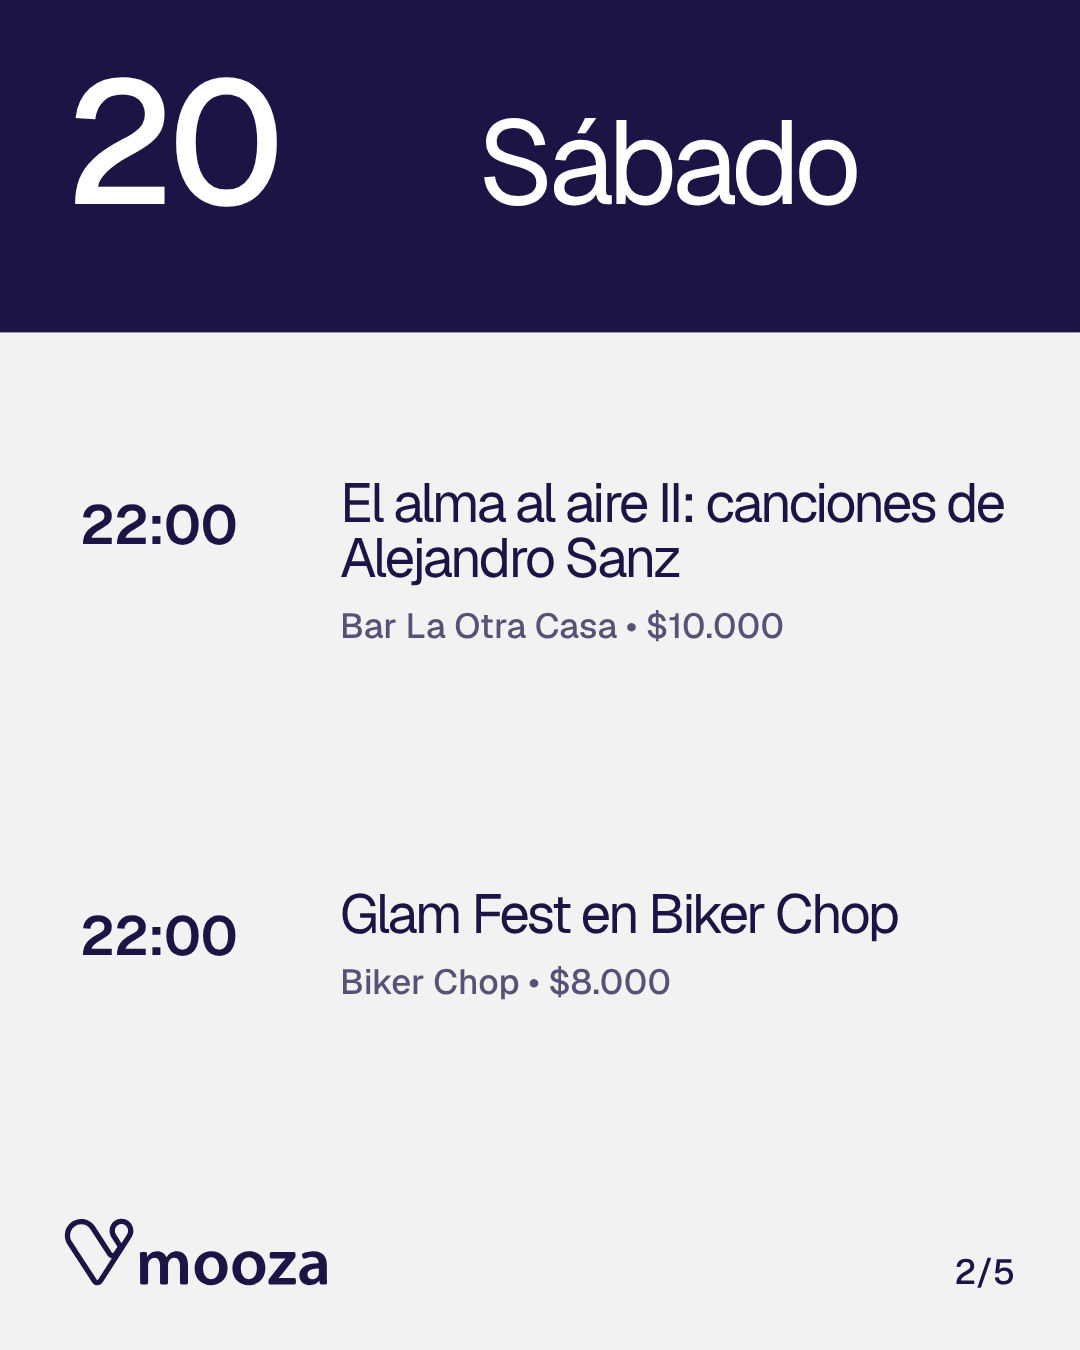
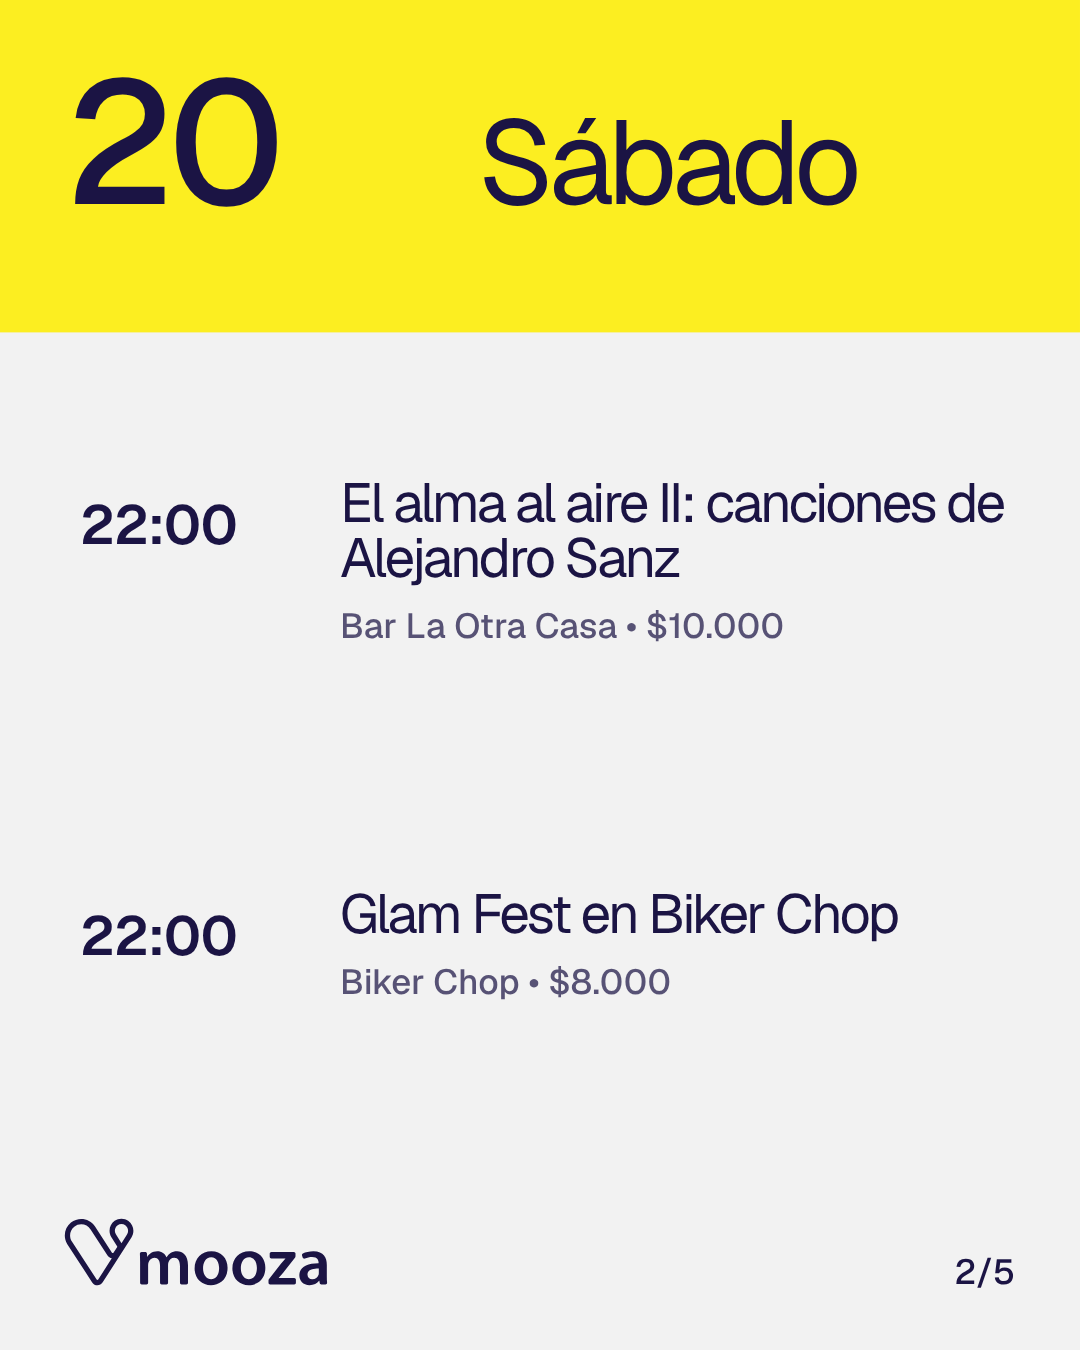
Color: cada diseño con su zona (azul, amarillo, naranjo); el azul es protagonista, no absoluto; web con zona amarilla
Claude-Session: https://claude.ai/code/session_01FatczGDNUrWcTXBDB5f52U

Changed region(s): [[0.0, 0.0, 1.0, 0.2489]]

diff --git a/components/grid/poster.js b/components/grid/poster.js
@@ -59,10 +59,13 @@
   function zona(desde,n,fondo){return cell(1,7,desde,n,'mz-zona','','background:'+fondo)}
   /* mitad derecha de un cartel horizontal: del centro al borde */
   function mitad(fondo,cls){return '<div class="mz-mitad'+(cls?' '+cls:'')+'"'+(fondo?' style="background:'+fondo+'"':'')+'></div>'}
-  /* el color protagonista de la pieza: azul, o el que venga en datos.color */
-  function campo(d){return 'var(--mz-'+(d.color||'azul')+')'}
+  /* el color de la zona: el que venga en datos.color o el propio de cada diseño (azul, amarillo o naranja).
+     El azul es protagonista, no el único: en un conjunto de piezas los tres colores se reparten. */
+  function campo(d,def){return 'var(--mz-'+(d.color||def)+')'}
   /* sobre azul el texto va en blanco; sobre cualquier otro campo, en azul */
-  function tinta(d){var c=d.color||'azul';return c==='azul'?' mz-sobre-oscuro':''}
+  function tinta(d,def){return (d.color||def)==='azul'?' mz-sobre-oscuro':''}
+  /* el acento pequeño es amarillo, salvo que la zona ya sea amarilla: entonces es naranja */
+  function acento(d,def){return 'background:var(--mz-'+((d.color||def)==='amarillo'?'naranja':'amarillo')+')'}
 
   /* pie: la última fila de todo cartel. El logo mide dos columnas y va a la izquierda; el texto, a la derecha.
      Nada más entra en esa fila, así que el logo nunca choca. oscuro: el pie está sobre el color oscuro. */
@@ -73,21 +76,21 @@
 
   /* titular: arriba, el titular sobre el color. Abajo, sobre gris, la fecha. */
   function titular(d,n,f){
-    var k=tinta(d);
-    if(f==='16x9')return grid(n,mitad(campo(d))+cell(1,3,1,3,'mz-t-grande',d.titular)+cell(5,7,1,1,'mz-t-sub'+k,d.rango)+
+    var k=tinta(d,'azul');
+    if(f==='16x9')return grid(n,mitad(campo(d,'azul'))+cell(1,3,1,3,'mz-t-grande',d.titular)+cell(5,7,1,1,'mz-t-sub'+k,d.rango)+
       cell(1,2,n,n,'mz-pie-logo',LOGO)+cell(5,7,n,n,'mz-t-dato mz-fecha-pie'+k,'mooza.cl'));
     var s=ARRIBA_TITULAR[f];
-    return grid(n,zonaA(s,campo(d))+cell(1,7,1,s,'mz-t-grande'+k,d.titular)+
+    return grid(n,zonaA(s,campo(d,'azul'))+cell(1,7,1,s,'mz-t-grande'+k,d.titular)+
       cell(1,7,s+2,s+2,'mz-t-sub mz-abajo',d.rango)+pie(n,'mooza.cl'));
   }
 
   /* número: arriba, sobre gris, el rango de la semana, enorme. Abajo, sobre el color, qué es. */
   function numero(d,n,f){
-    var k=tinta(d);
-    if(f==='16x9')return grid(n,mitad(campo(d))+cell(1,3,1,2,'mz-t-grande','Esta<br>semana')+cell(5,7,1,3,'mz-t-display'+k,d.corto)+
+    var k=tinta(d,'amarillo');
+    if(f==='16x9')return grid(n,mitad(campo(d,'amarillo'))+cell(1,3,1,2,'mz-t-grande','Esta<br>semana')+cell(5,7,1,3,'mz-t-display'+k,d.corto)+
       cell(1,2,n,n,'mz-pie-logo',LOGO)+cell(5,7,n,n,'mz-t-dato mz-fecha-pie'+k,'mooza.cl'));
     var s=ARRIBA[f];
-    return grid(n,zona(s+1,n,campo(d))+cell(1,7,1,s,'mz-t-display',d.corto)+
+    return grid(n,zona(s+1,n,campo(d,'amarillo'))+cell(1,7,1,s,'mz-t-display',d.corto)+
       cell(1,7,s+2,s+2,'mz-t-titular mz-abajo'+k,'Esta semana')+pie(n,'mooza.cl',k));
   }
 
@@ -103,19 +106,19 @@
 
   /* semana: arriba, sobre el color, el titular. Abajo, sobre gris, siete días; el destacado lleva el acento. */
   function semana(d,n,f){
-    var s=ARRIBA[f],fila=n-2,h=zonaA(s,campo(d))+cell(1,7,1,s,'mz-t-grande'+tinta(d),'Esta<br>semana');
+    var s=ARRIBA[f],fila=n-2,h=zonaA(s,campo(d,'naranja'))+cell(1,7,1,s,'mz-t-grande'+tinta(d,'naranja'),'Esta<br>semana');
     d.dias.forEach(function(x,i){
-      h+=cell(i+1,i+1,fila,fila,'mz-dc'+(i===d.diaDestacado?' mz-dc-on':''),'<span class="mz-t-micro">'+x[0]+'</span><b>'+x[1]+'</b>');
+      h+=cell(i+1,i+1,fila,fila,'mz-dc'+(i===d.diaDestacado?' mz-dc-on':''),'<span class="mz-t-micro">'+x[0]+'</span><b>'+x[1]+'</b>',i===d.diaDestacado?acento(d,'naranja'):'');
     });
     return grid(n,h+pie(n,d.rango));
   }
 
   /* agenda: arriba, sobre el color, el día. Abajo, sobre gris, hasta dos eventos con una fila de aire entre ellos. */
   function agenda(d,n){
-    var a=d.agenda,h=zonaA(2,campo(d))+cell(1,7,1,2,'mz-cabeza'+tinta(d),'<span class="mz-t-grande mz-num">'+a.n+'</span><span class="mz-t-titular">'+a.dia+'</span>');
+    var a=d.agenda,h=zonaA(2,campo(d,'amarillo'))+cell(1,7,1,2,'mz-cabeza'+tinta(d,'amarillo'),'<span class="mz-t-grande mz-num">'+a.n+'</span><span class="mz-t-titular">'+a.dia+'</span>');
     a.eventos.slice(0,2).forEach(function(e,i){
       var r=4+i*3;
-      h+=cell(1,2,r,r,'mz-hora'+(e.f?' mz-hora-on':''),e.h||'')+
+      h+=cell(1,2,r,r,'mz-hora'+(e.f?' mz-hora-on':''),e.h||'',e.f?acento(d,'amarillo'):'')+
          cell(3,7,r,r+1,'mz-evento-t','<span class="mz-t-texto">'+e.t+'</span><span class="mz-t-dato">'+e.v+(e.p?' • '+e.p:'')+'</span>');
     });
     return grid(n,h+pie(n,a.pag||''));

diff --git a/guidelines/web.html b/guidelines/web.html
@@ -63,13 +63,15 @@ h2{font-family:var(--mz-palabra);font-weight:var(--mz-peso-titular);letter-spaci
 /* lista */
 .lista .f{display:grid;grid-template-columns:auto minmax(0,1fr) auto 96px;gap:clamp(12px,2vw,28px);align-items:center;padding:14px 0;border-top:1px solid var(--mz-linea)}
 .lista .f:last-child{border-bottom:1px solid var(--mz-linea)}
+.lista .cat::before{content:"";display:inline-block;width:8px;height:8px;background:var(--mz-naranja);margin-right:8px}
 .lista .cat{display:block;font-size:12px;font-weight:600;letter-spacing:.02em;color:var(--mz-fg-suave);margin-bottom:6px}
 .lista h3{font-family:var(--mz-palabra);font-weight:var(--mz-peso-titular);font-size:clamp(22px,2.6vw,34px);line-height:1.08;letter-spacing:-.02em}
 .lista .m{font-size:14px;color:var(--mz-fg-suave);margin-top:4px}
 .lista .thumb{width:96px;height:96px;display:block;justify-self:end}
 .vacio-l{padding:28px 0;color:var(--mz-fg-suave)}
 
-/* destacado: la foto es el color */
+/* destacado: segunda zona de color, en amarillo; la foto va en azul y gris */
+.dest-b{background:var(--mz-amarillo)}
 .dest-b .g7{padding-block:clamp(40px,6vw,88px);align-items:center}
 .dest-b .foto{grid-column:1/4}
 .dest-b .foto canvas{width:100%;height:auto;display:block;aspect-ratio:4/5;object-fit:cover}
@@ -79,6 +81,9 @@ h2{font-family:var(--mz-palabra);font-weight:var(--mz-peso-titular);letter-spaci
 .dest-b h2{font-size:clamp(40px,5.6vw,84px)}
 .dest-b .dato{font-weight:500;font-size:clamp(16px,1.6vw,20px);font-variant-numeric:tabular-nums}
 .dest-b .acc{display:flex;gap:10px;flex-wrap:wrap}
+.dest-b .mz-btn:hover{background:var(--mz-naranja);color:var(--mz-azul)}
+.dest-b .mz-btn--linea:hover{background:var(--mz-azul);color:var(--mz-blanco)}
+.dest-b .info .k,.dest-b .foto figcaption{color:var(--mz-azul)}
 
 /* pie */
 .pie{padding-block:clamp(40px,6vw,80px);border-top:1px solid var(--mz-linea)}

diff --git a/guidelines/index.html b/guidelines/index.html
@@ -245,7 +245,7 @@ input[type=range]{width:100%;accent-color:var(--mz-amarillo);height:26px;margin:
   <section class="sec" id="color">
     <span class="k">Color</span>
     <h2>Cinco colores planos y un neutro</h2>
-    <p class="nota" style="margin-bottom:28px">Orden de importancia: gris claro (el "blanco" de la marca, fondo de todo), azul (el color principal, en una zona) y amarillo o naranjo (solo acentos pequeños). Los colores nunca compiten. No hay degradados ni sombras.</p>
+    <p class="nota" style="margin-bottom:28px">Orden de importancia: gris claro (el "blanco" de la marca, fondo de todo), azul (protagonista, pero no absoluto) y amarillo y naranjo. Cada pieza tiene una sola zona de color: en un conjunto, cerca de la mitad es azul y el resto se reparte entre amarillo y naranjo. Los colores nunca compiten. No hay degradados ni sombras.</p>
     <div class="sw">
       <div class="c-azul"><b>azul</b><span><code>#1b1444</code><small>Color principal: la zona de color y la foto.</small></span></div>
       <div class="c-amarillo"><b>amarillo</b><span><code>#fcee21</code><small>Acento.</small></span></div>

diff --git a/SKILL.md b/SKILL.md
@@ -11,7 +11,7 @@ Si haces piezas visuales (carteles, stories, maquetas), parte de `kit/plantillas
 Decisiones de la marca:
 - Regla de base: cada elemento ocupa celdas completas y ninguno comparte celdas con otro. Los seis elementos (logo, fecha, titular, número, celda y foto) están medidos en `guidelines/elementos.html`. Corre `components/grid/auditoria.mjs` después de cambiar un diseño.
 - La semana es la grilla: siete columnas, una por día. Margen 6 % y medianil 1,2 % del ancho como estándar. Margen entre 3 y 12 %, medianil entre 0,6 y 3,5 % y como máximo la mitad del margen.
-- Orden de importancia del color: gris claro (#f2f2f2, el "blanco" de la marca, fondo de todo), azul (color principal) y amarillo o naranjo (solo acentos pequeños). Cada cartel se parte en dos zonas (arriba y abajo; en 16:9, izquierda y derecha): una gris y otra azul (o la foto). Los colores nunca compiten. Texto y logo en azul sobre gris y en blanco sobre azul. No hay negro: el azul es el color más oscuro. Sin degradados, sombras ni iconos.
+- Orden de importancia del color: gris claro (#f2f2f2, el "blanco" de la marca, fondo de todo), azul (protagonista, no absoluto: cerca de la mitad de las piezas) y amarillo y naranjo (el resto de las zonas, y acentos pequeños). Cada pieza tiene una sola zona de color: azul, amarillo o naranjo. Cada cartel se parte en dos zonas (arriba y abajo; en 16:9, izquierda y derecha): una gris y otra azul (o la foto). Los colores nunca compiten. Texto y logo en azul sobre gris y en blanco sobre azul. No hay negro: el azul es el color más oscuro. Sin degradados, sombras ni iconos.
 - Una sola familia, Geist: peso 400 en palabras y 500 en números y datos. La jerarquía sale del tamaño. Titulares con mayúscula inicial: "Tu semana cultural".
 - Formatos: 4:5, A3 vertical, 1:1, 9:16 y 16:9, todos con siete columnas. Las filas se eligen para que la celda sea casi cuadrada (tabla en `readme.md`).
 - Pie: la última fila de todo cartel. Logo de dos columnas a la izquierda y fecha a la derecha; nada más entra en esa fila.

diff --git a/readme.md b/readme.md
@@ -35,7 +35,7 @@ Las filas dependen del formato: 9 o 10 en 4:5 y 16 en 9:16. Los titulares y los 
 
 ### Color
 
-Cinco colores planos y un gris claro. Orden de importancia: gris claro (el "blanco" de la marca, fondo de todo cartel y de la web), azul (el color principal, en una sola zona que llega a los bordes) y amarillo o naranjo (solo como acentos pequeños: el día destacado, una hora, el punto de la categoría, el filtro activo). Los colores no compiten: nunca dos campos de color grandes en la misma pieza. No hay negro: el azul es el color más oscuro y es también la tinta de textos y logo sobre gris. Sobre azul, el texto va en blanco. No hay degradados ni sombras.
+Cinco colores planos y un gris claro. Orden de importancia: gris claro (el "blanco" de la marca, fondo de todo cartel y de la web), azul (el protagonista, pero no absoluto) y amarillo y naranjo. En cada pieza hay una sola zona de color, que puede ser azul, amarillo o naranjo; en un conjunto de piezas el azul es cerca de la mitad y el resto se reparte entre amarillo y naranjo (ver `kit/tablero/color-en-proporcion.png`). Además, los tres aparecen como acentos pequeños: el día destacado, una hora, el punto de la categoría, el filtro activo; si la zona ya es amarilla, el acento es naranjo. Los colores no compiten: nunca dos campos de color grandes en la misma pieza. No hay negro: el azul es el color más oscuro y es también la tinta de textos y logo sobre gris. Sobre azul, el texto va en blanco. No hay degradados ni sombras.
 
 | Token | Hex | Uso |
 |---|---|---|

diff --git a/components/grid/README.md b/components/grid/README.md
@@ -28,7 +28,7 @@ Un diseño que no existe en un formato lanza un error.
 
 ## Datos
 
-Los campos que no pases se toman de `MoozaPoster.EJEMPLO`: `color` (`azul` por defecto; `amarillo` o `naranja` si la pieza lo pide, con texto en azul), `rango`, `corto`, `titular`, `dias` y `diaDestacado` (semana), `evento` (foto), `agenda` (`dia`, `n`, `pag` y `eventos` con `h`, `t`, `v`, `p`, `f`) y `story`.
+Los campos que no pases se toman de `MoozaPoster.EJEMPLO`: `color` (la zona de color: `azul`, `amarillo` o `naranja`; cada diseño tiene el suyo por defecto: titular azul, número amarillo, semana naranja y agenda amarillo; el texto sobre amarillo y naranjo va en azul), `rango`, `corto`, `titular`, `dias` y `diaDestacado` (semana), `evento` (foto), `agenda` (`dia`, `n`, `pag` y `eventos` con `h`, `t`, `v`, `p`, `f`) y `story`.
 
 ## Reglas
 
@@ -47,4 +47,4 @@ Los titulares, nombres de evento y textos de lista usan `--mz-palabra` (por defe
 
 ## Color por pieza
 
-`MoozaPoster.mount(el, 'titular', {color: 'amarillo'})` cambia la zona de color de esa pieza (`azul` por defecto; también `naranja`). El texto se ajusta solo. Ver `kit/tablero/color-en-proporcion.png`.
+`MoozaPoster.mount(el, 'titular', {color: 'amarillo'})` cambia la zona de color de esa pieza (`azul`, `amarillo` o `naranja`). El texto se ajusta solo. Ver `kit/tablero/color-en-proporcion.png`.

diff --git a/kit/README.md b/kit/README.md
@@ -23,7 +23,7 @@ Todo está construido sobre la grilla de siete columnas, con margen 6 % y median
 ## Reglas rápidas
 
 - Pie: la última fila de todo cartel. Logo de dos columnas a la izquierda y fecha a la derecha; nada más entra en esa fila.
-- Fondo gris claro. El azul es el color principal, en una sola zona por pieza; amarillo y naranjo solo como acentos pequeños.
+- Fondo gris claro. Una sola zona de color por pieza: azul, amarillo o naranjo. El azul es protagonista, no absoluto: en un conjunto, cerca de la mitad; el resto, amarillo y naranjo. Los acentos pequeños usan los otros colores.
 - Palabras en serif, números en grotesca.
 - Fotos en celdas completas y sin llegar al borde.
 - Logo en azul sobre gris claro, amarillo y naranja; en blanco sobre azul.
